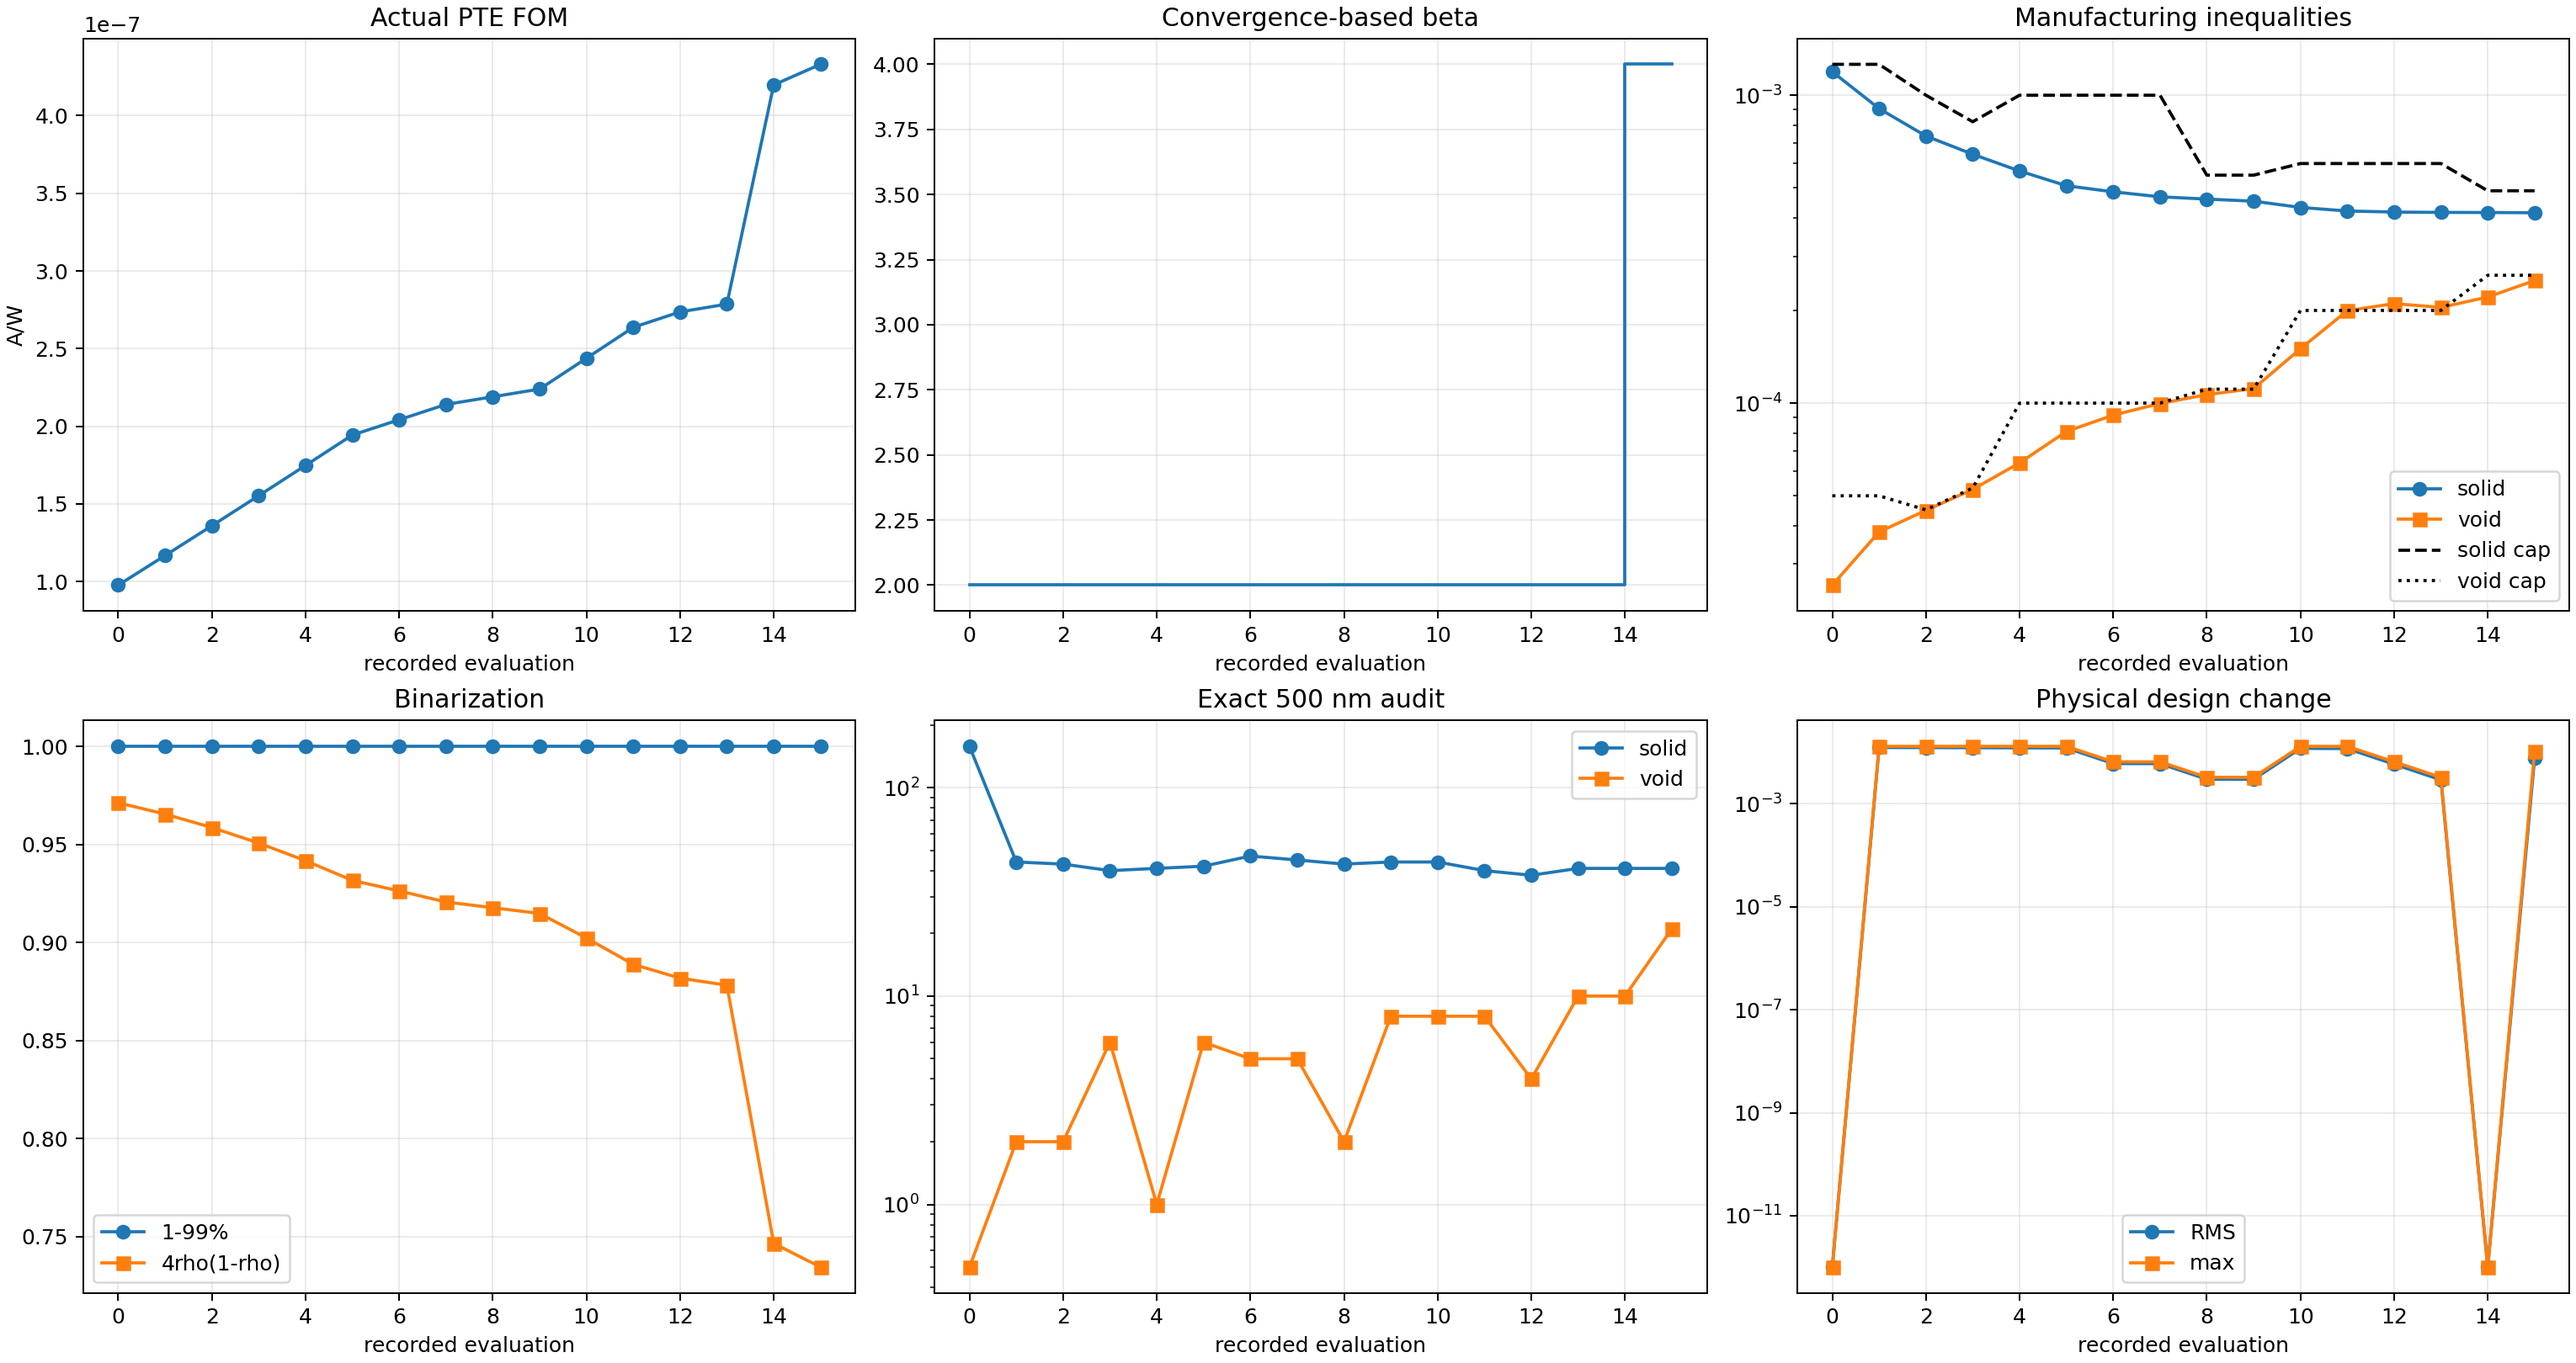
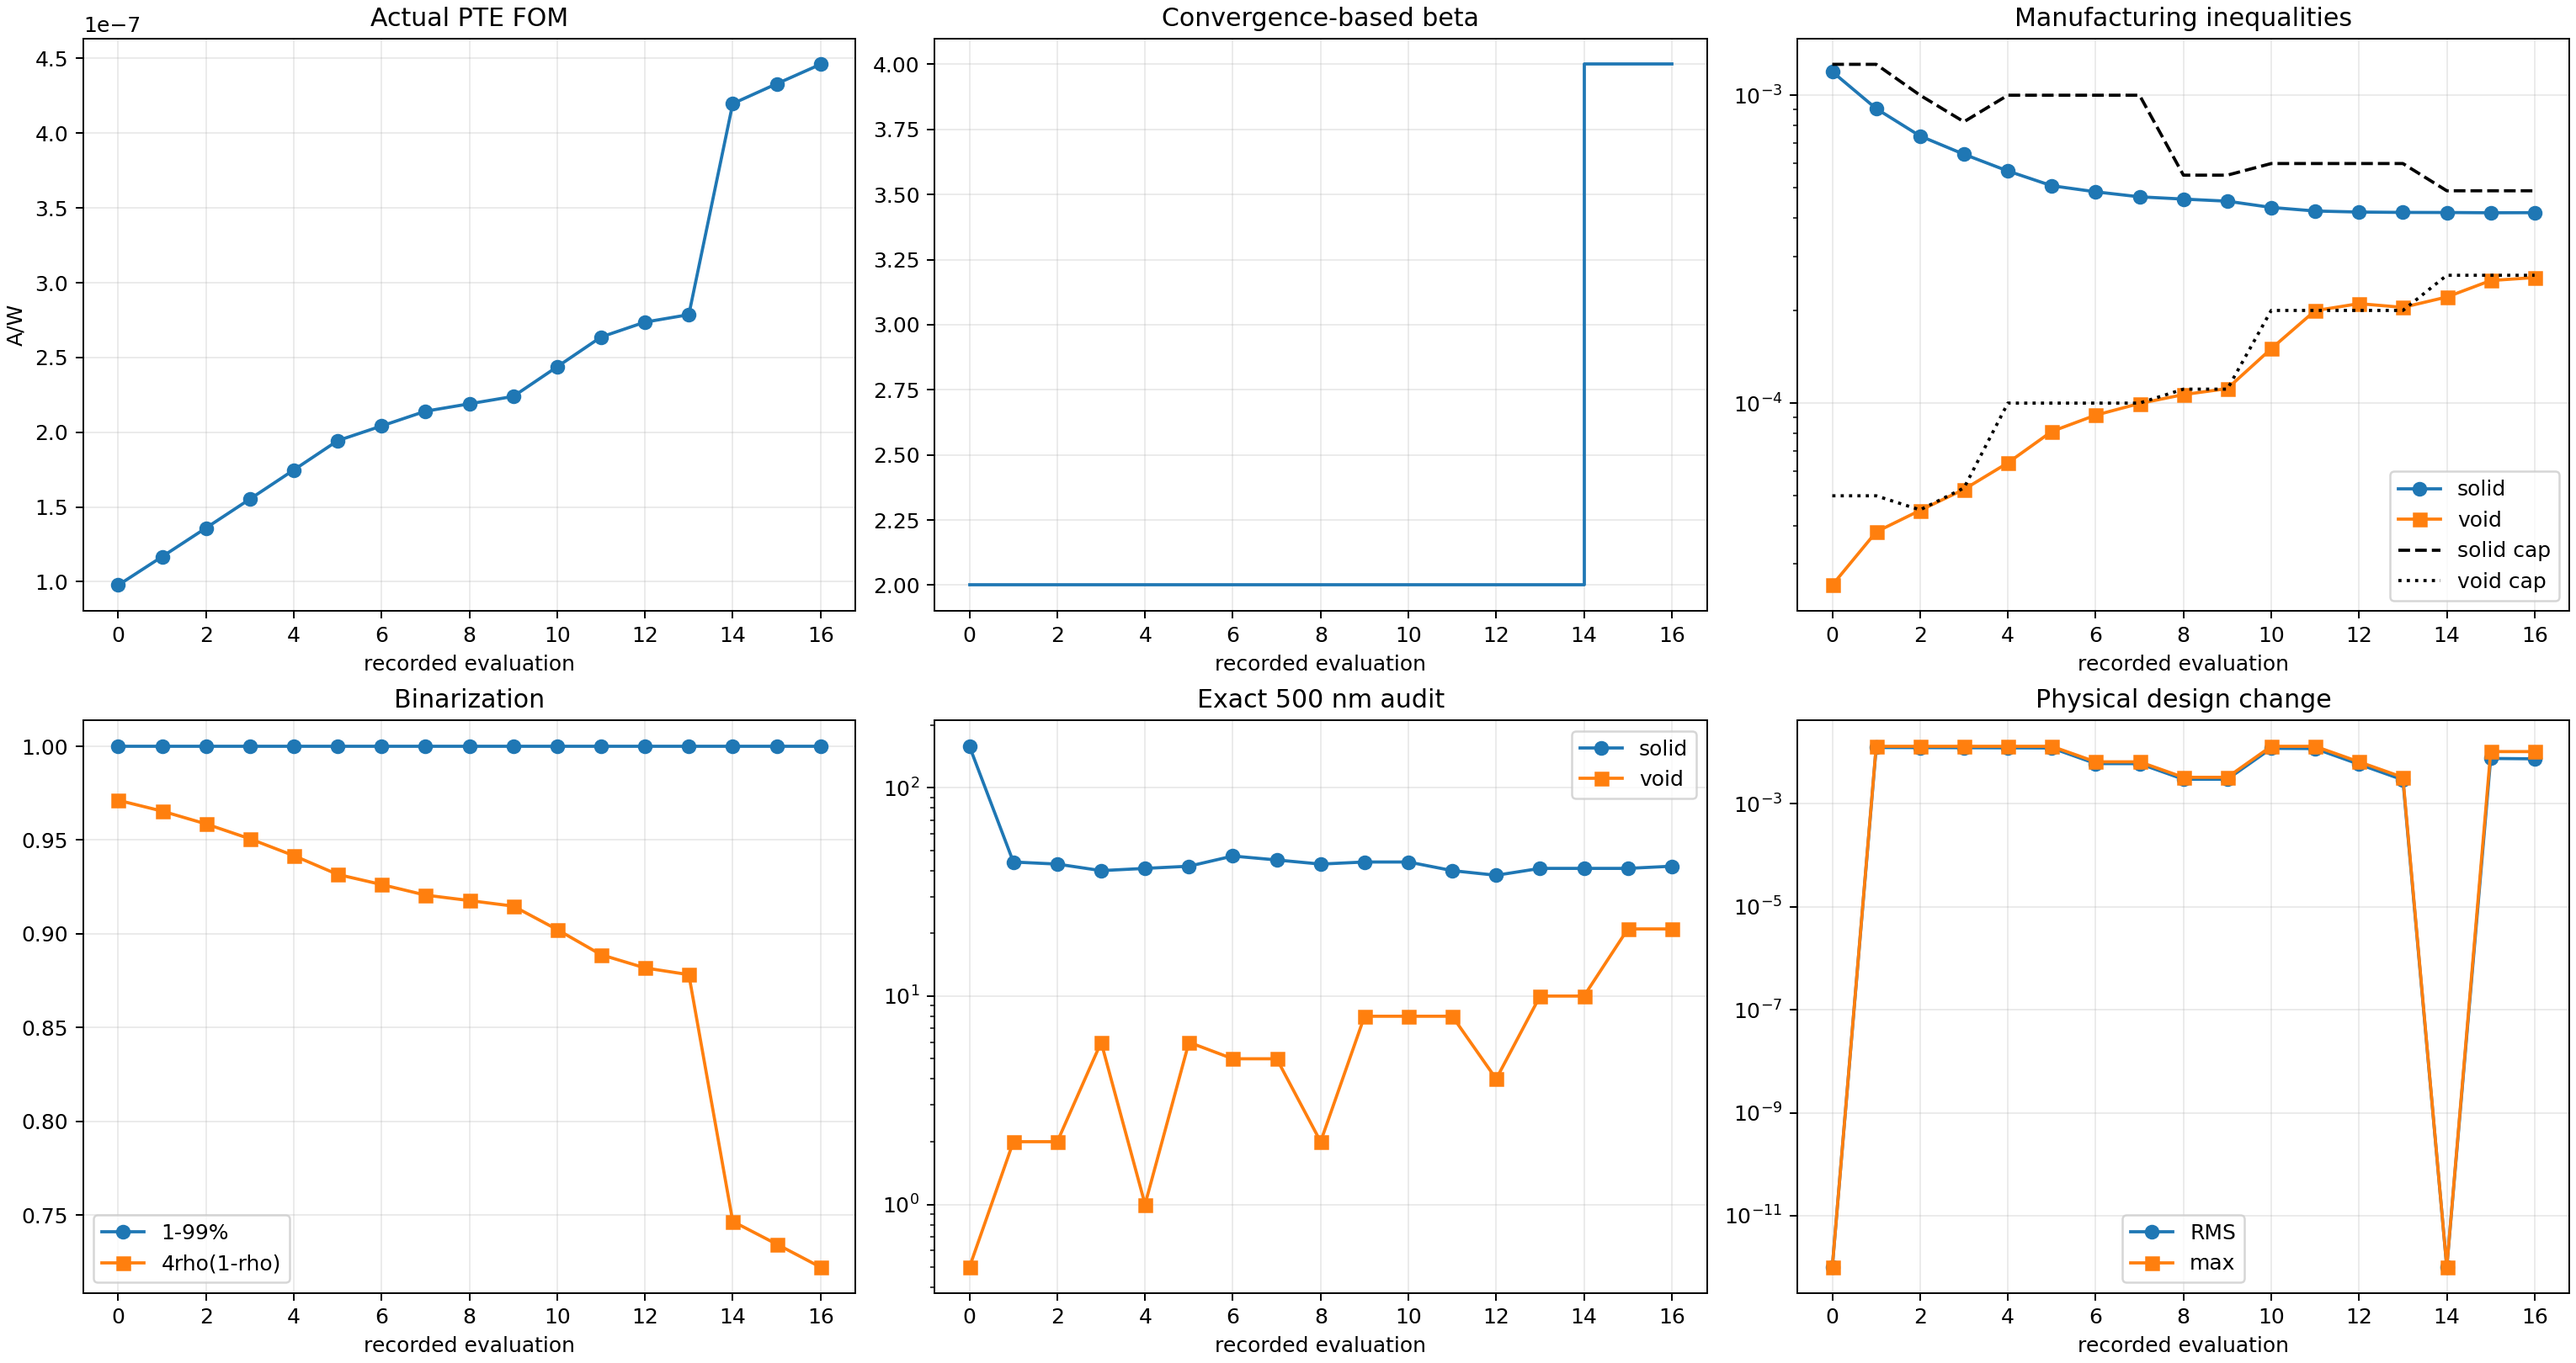
Record Run 005 run005_b004_s002_g015_accepted_mma

diff --git a/photothermal_pte/optimization_runs/run_005_lowbeta_topology_exploration_pilot/results/OPTIMIZATION_REPORT.md b/photothermal_pte/optimization_runs/run_005_lowbeta_topology_exploration_pilot/results/OPTIMIZATION_REPORT.md
@@ -2,12 +2,12 @@
 
 Status: `RUNNING_RUN005_FULL_BINARY_BETA_CONTINUATION`
 
-Current stage: beta=4, accepted stage iteration=1, global iteration=14.
+Current stage: beta=4, accepted stage iteration=2, global iteration=15.
 
 Constraint contract: `soft_disk_opening_500nm_from_iteration_zero_v5`.
 
-Actual FOM: `4.330416303952e-07 A/W`. Fixed-cap solid/void constraints: `4.151948e-04` / `2.500748e-04` with caps `4.894159e-04` / `2.601193e-04`.
+Actual FOM: `4.460869800932e-07 A/W`. Fixed-cap solid/void constraints: `4.154969e-04` / `2.557717e-04` with caps `4.894159e-04` / `2.601193e-04`.
 
-Exact 500 nm bad cells: solid `41`, void `21`. Stage convergence: `False` (need at least 6 accepted updates).
+Exact 500 nm bad cells: solid `42`, void `21`. Stage convergence: `False` (need at least 6 accepted updates).
 
 Beta advances only after the stage FOM/density plateau. The run is not complete until the projected-binary and exact 500 nm gates pass and a fresh thresholded-binary GPU/CUDA evaluation succeeds.
